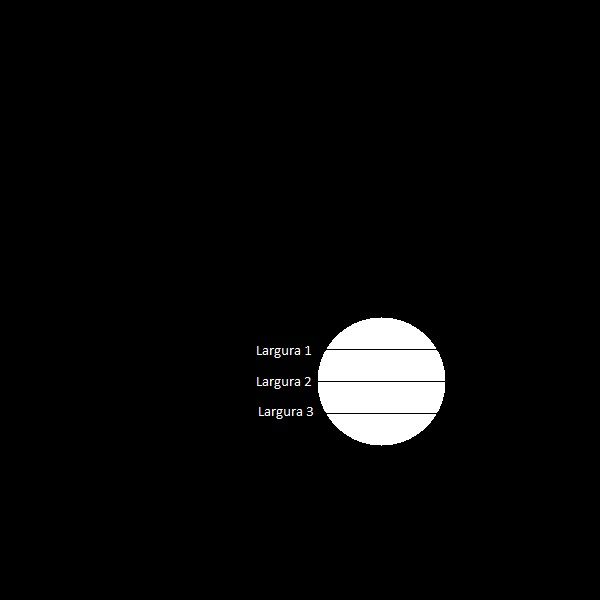
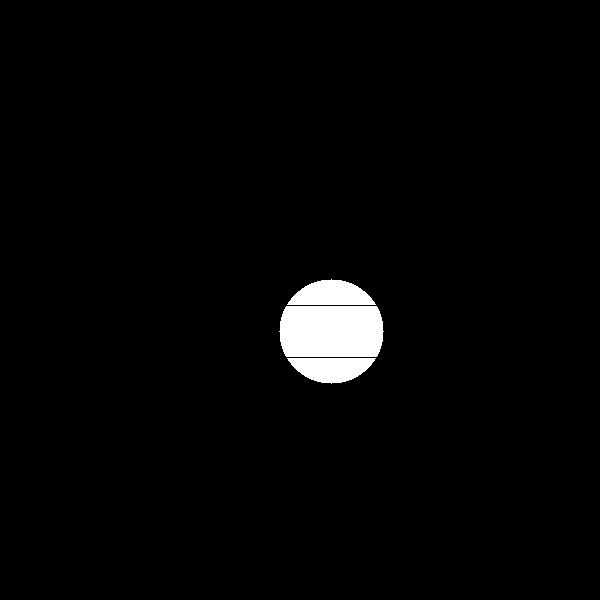
Adicionado impressão da linha no algoritmo

Changed region(s): [[0.42, 0.45, 0.75, 0.75]]

diff --git a/AtividadeCasa/main.cpp b/AtividadeCasa/main.cpp
@@ -57,9 +57,9 @@ int main(int argc, char *argv[])
             fprintf(planilha,"%d;",tipoQuadrado);
             fprintf(planilha,"%d;",dim);
             fprintf(planilha,"%d;",dim);
-            fprintf(planilha,"%d;",dim/3);
-            fprintf(planilha,"%d;",dim/3);
-            fprintf(planilha,"%d;",dim/3);
+            fprintf(planilha,"%d;",dim);
+            fprintf(planilha,"%d;",dim);
+            fprintf(planilha,"%d;",dim);
             fprintf(planilha,"\n");
             break;
 
@@ -96,6 +96,16 @@ int main(int argc, char *argv[])
                     for(int COLUNA = 0; COLUNA < imagem.cols; COLUNA ++){
 
 
+                        if (LINHA == pontoLinhaSuperior && COLUNA == pos) {
+
+                            for (int NOVACOLUNA = 0; NOVACOLUNA < imagem.cols; NOVACOLUNA++) {
+
+                                imagem.at<uchar>(LINHA, NOVACOLUNA) = NIVELMINIMOCOR;
+                            }
+                        }
+
+
+
                         if (LINHA == pontoLinhaInferior && COLUNA == pos) {
                             printf("Estamos na parte Inferior! Linha : %d  Coluna: %d\n", LINHA, COLUNA);
 
@@ -113,10 +123,10 @@ int main(int argc, char *argv[])
                                            imagem.at<uchar>(LINHA, NOVACOLUNA + 1) == NIVELMINIMOCOR) {
                                     largura2 = NOVACOLUNA;
                                 }
+
+                                imagem.at<uchar>(LINHA, NOVACOLUNA) = NIVELMINIMOCOR;
                             }
                        }
-
-
 
 
                     }
